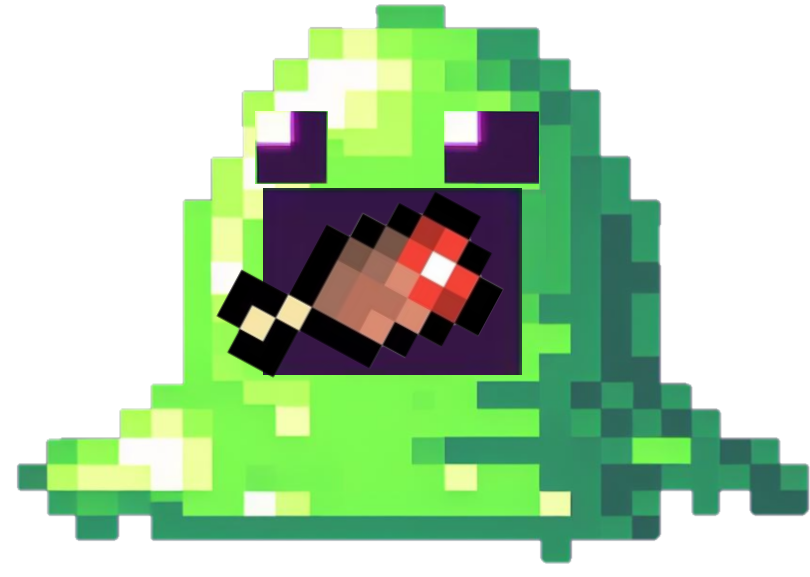
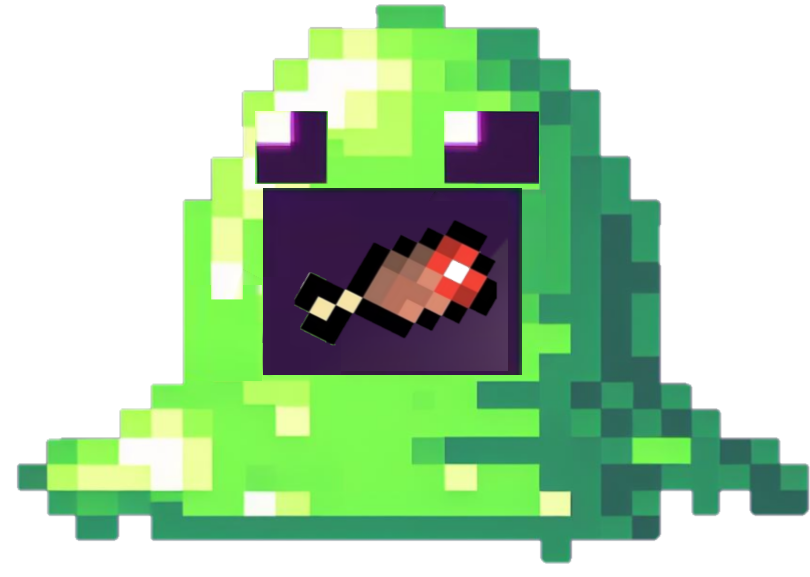
Added functional eating

Changed region(s): [[0.2469, 0.312, 0.6481, 0.6863]]

diff --git a/buddy.py b/buddy.py
@@ -1,16 +1,23 @@
 import pygame
+from pypresence import Presence
 import time
 import random
-pygame.init()
+import win32gui
+import win32con
+import win32api
+rpc = Presence("1225535870199795782")
+rpc.connect()
+rpc.update(state="Playing with buddy",details = "Having fun", large_image="slime_smile2")
 
 food_amount_max = 100
-random_number = random.randint(1, 5)
+pygame.init()
 window_width = 100
 window_height = 70
 screen = pygame.display.set_mode((window_width, window_height))
 loop = 0
 backround_image = pygame.image.load("pixelworld.png")
-screen.blit(backround_image, (-5, -30))
+backround_image = pygame.transform.scale(backround_image, (120, 90))
+screen.blit(backround_image, (-5, -20))
 pygame.display.set_caption("Buddy")
 clock = pygame.time.Clock()
 slimex, slimey = 27, 35
@@ -21,11 +28,9 @@ print("slime smile")
 Slime = pygame.image.load("slime.png").convert_alpha()
 Slime = pygame.transform.scale(Slime, (50, 40))
 screen.blit(Slime, (slimex, slimey))
-foodicon = pygame.image.load("minecraft_hunger icon.png").convert_alpha()
-foodicon = pygame.transform.scale(foodicon, (25, 20))
-screen.blit(foodicon, (3, 3))
 pygame.display.update()
 
+food_level = 100
 PLACEHOLDER = "slime.png"
 heart = "heart.png"
 slime_smile = "slime_smile.png"
@@ -33,8 +38,10 @@ slime_smile2 = "slime_smile2.png"
 slime_eating = "slime_eat1.png"
 slime_neutral = "slime.png"
 slime_mouth_closed = "slime_eat2.png"
-food_icon = "minecraft_hunger icon.png"
+full_icon = "FULLicon.png"
 
+hwnd = pygame.display.get_wm_info()["window"]
+win32gui.SetWindowPos(hwnd, win32con.HWND_TOPMOST, 0, 0, 0, 0, win32con.SWP_NOMOVE | win32con.SWP_NOSIZE)
 
 running = True
 while running:
@@ -50,21 +57,21 @@ while running:
             print("slime smile")
             Slime = pygame.image.load(slime_smile).convert_alpha()
             Slime = pygame.transform.scale(Slime, (50, 40))
-            screen.blit(backround_image, (-5, -30))
+            screen.blit(backround_image, (-5, -20))
             screen.blit(Slime, (slimex, slimey))
             pygame.display.update()
             time.sleep(0.25)
             print("Smile 2")
             Slime = pygame.image.load(slime_smile2).convert_alpha()
             Slime = pygame.transform.scale(Slime, (50, 40))
-            screen.blit(backround_image, (-5, -30))
+            screen.blit(backround_image, (-5, -20))
             screen.blit(Slime, (slimex, slimey))
             pygame.display.update()
             time.sleep(0.5)
             print("slime normal")
             Slime = pygame.image.load(slime_neutral).convert_alpha()
             Slime = pygame.transform.scale(Slime, (50, 40))
-            screen.blit(backround_image, (-5, -30))
+            screen.blit(backround_image, (-5, -20))
             screen.blit(Slime, (slimex, slimey))
             pygame.display.update()
             action = False
@@ -72,28 +79,37 @@ while running:
     if event.type == pygame.MOUSEBUTTONDOWN and event.button == 3:
         action = True
         if 27 < mouse_pos[0] < 77 and 35 < mouse_pos[1] < 75:
-            print("Feeding")
-            Slime = pygame.image.load(slime_smile2).convert_alpha()
-            Slime = pygame.transform.scale(Slime, (50, 40))
-            screen.blit(Slime, (slimex, slimey))
-            pygame.display.update()
-            time.sleep(1)
-            Slime = pygame.image.load(slime_eating).convert_alpha()
-            slime = pygame.transform.scale(Slime, (50, 40))
-            screen.blit(Slime, (slimex, slimey))
-            pygame.display.update()
-            time.sleep(1)
-            Slime = pygame.image.load(slime_mouth_closed).convert_alpha()
-            Slime = pygame.transform.scale(Slime, (50, 40))
-            screen.blit(Slime, (slimex, slimey))
-            pygame.display.update()
-            time.sleep(1)
-            Slime =  pygame.image.load(slime_neutral).convert_alpha()
-            Slime = pygame.transform.scale(Slime, (50, 40))
-            screen.blit(Slime, (slimex, slimey))
-            pygame.display.update()
-
-
+            if food_level > food_amount_max:
+                print("FULL")
+                Fullicon = pygame.image.load(full_icon).convert_alpha()
+                Fullicon = pygame.transform.scale(Fullicon, (60, 20))
+                screen.blit(Fullicon, (slimex, slimey - 30))
+                pygame.display.update()
+                time.sleep(1)
+                screen.blit(backround_image,(-5, -20))
+                screen.blit(Slime,(slimex, slimey))
+                pygame.display.update()
+            else:
+                print("Feeding")
+                Slime = pygame.image.load(slime_eating).convert_alpha()
+                Slime = pygame.transform.scale(Slime, (50, 40))
+                screen.blit(Slime, (slimex, slimey))
+                pygame.display.update()
+                time.sleep(1)
+                Slime = pygame.image.load(slime_mouth_closed).convert_alpha()
+                Slime = pygame.transform.scale(Slime, (50, 40))
+                screen.blit(Slime, (slimex, slimey))
+                pygame.display.update()
+                time.sleep(1)
+                Slime =  pygame.image.load(slime_neutral).convert_alpha()
+                Slime = pygame.transform.scale(Slime, (50, 40))
+                screen.blit(Slime, (slimex, slimey))
+                pygame.display.update()
+                if food_level < food_amount_max:
+                    food_level += 10
+        
+    food_level -= 0.01
+    print(food_level)
 
 pygame.display.update()
 pygame.time.delay(10)
